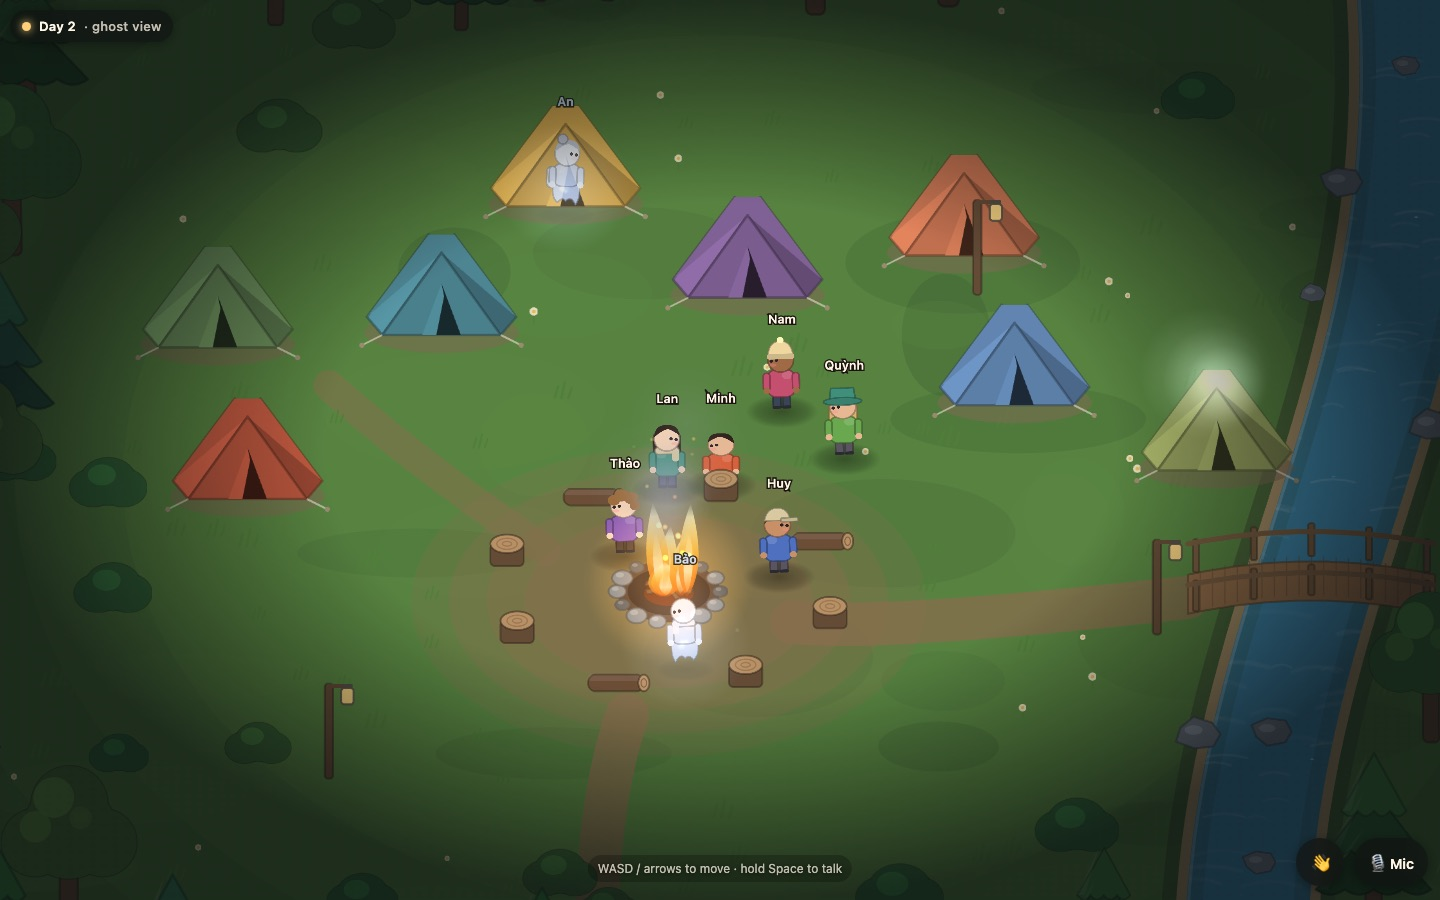
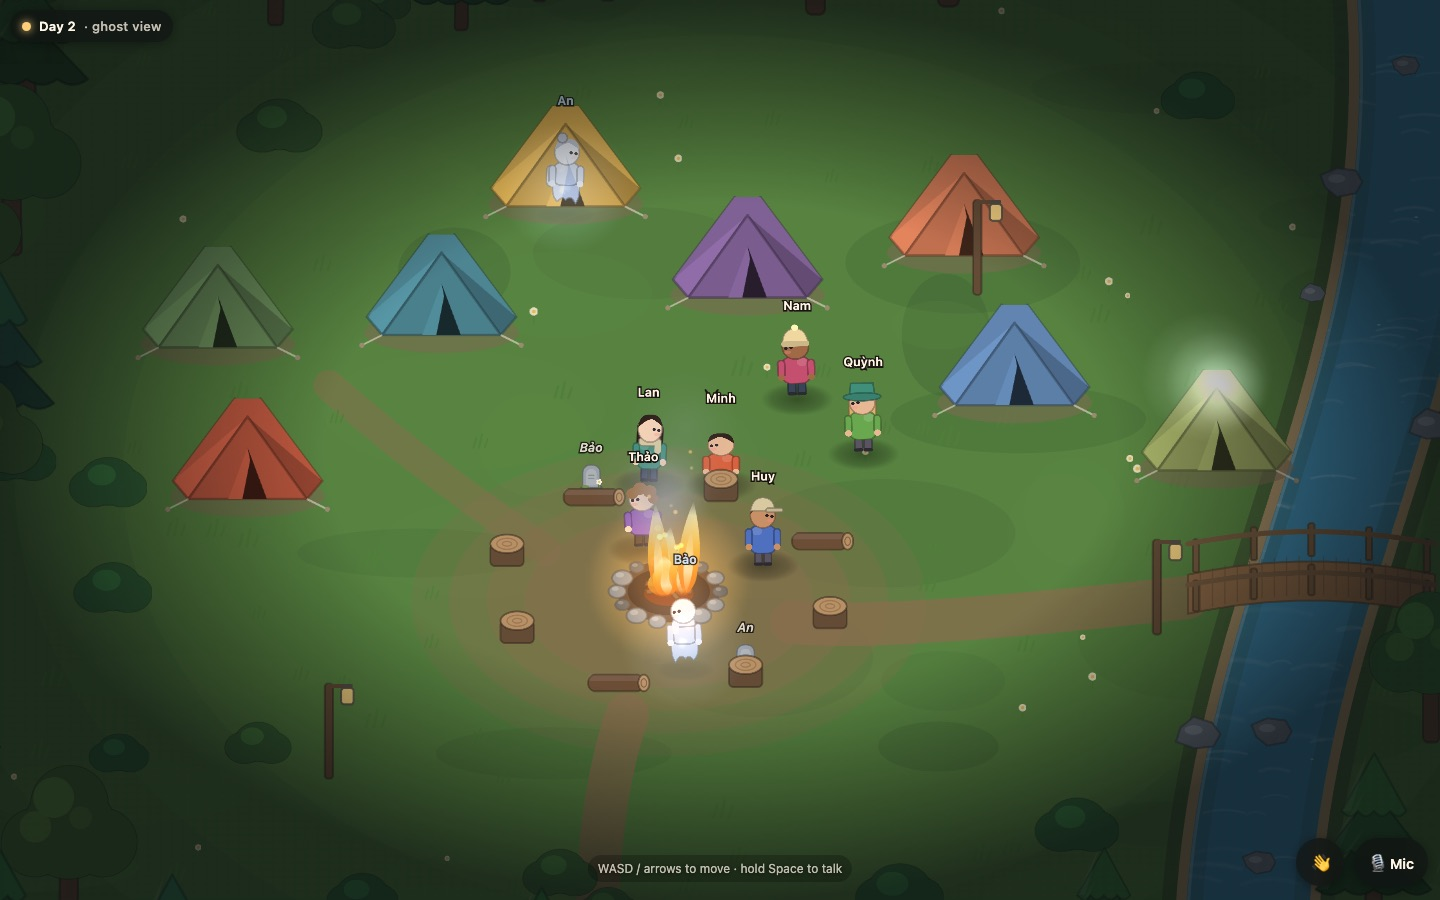
docs/visual/dawn: final after set on ab7a683 (memorials included), memorial before/after (3 dead seats, day + night, phone + laptop, Normal + Halloween), stone zoom, run records, limits

diff --git a/docs/visual/dawn/README.md b/docs/visual/dawn/README.md
@@ -2,7 +2,7 @@
 
 Scene dev page, fixtures only (no server, no voice, no live room), 8 players. Playwright **Chromium emulation**, headless,
 software WebGL, shared machine under load 12-23 (`runs.txt`); not real devices. "before" = live 7011b14, "after" = this
-branch. `packages/scene/scripts/dawn-check.mjs` drives every scenario on the **scene clock** and asserts per-seat state
+branch at ab7a683 (memorials included). `packages/scene/scripts/dawn-check.mjs` drives every scenario on the **scene clock** and asserts per-seat state
 (`debugSeats()`); old builds have no hook: captures only. Times in file names = scene seconds after dawn (or after the death).
 
 | scenario | files | what it shows |
@@ -13,6 +13,7 @@ branch. `packages/scene/scripts/dawn-check.mjs` drives every scenario on the **s
 | day death (execution) | `*/day-death-living-{laptop,phone}-high-t0.3/t1.5` | before: gone in one frame. after: fading at the seat with a wisp at 0.3 s, absent at 1.5 s |
 | low / reduced motion | `*/night-death-living-laptop-{low,reduced-motion}-*`, `*/day-death-living-laptop-low-*` | after: lantern straight out, no wisp (low) / one static wisp (reduced motion), same choreography |
 | Halloween theme | `after/night-death-living-laptop-high-halloween-*` | same beat with the overlay on |
+| memorials, 3 dead seats (s2, s5, s7 at dawn), day then the next night | `*/memorials-{laptop,phone}[-halloween]-t10/t19`, `compare/memorial-stone-laptop-zoom` | before: empty seats. after: a small headstone behind each dead seat's stump with the display name (muted italic), kept through the night; Halloween: tiny pumpkin instead of the flower |
 
 ## Limits
 
@@ -26,7 +27,16 @@ branch. `packages/scene/scripts/dawn-check.mjs` drives every scenario on the **s
   and laptop, high, low, reduced motion, Halloween. Clock in the browser (reduced motion): 9 s of scene time took 23.7 s
   real before vs 9.3 s after. Under heavy load `high` itself runs slower than real time (software WebGL below 10 fps hits
   the stall clamp): a test-machine effect, not a product timing claim.
+- **Memorials, unit tests** (`test/memorial.test.ts`): public dead only (not disconnected, not removed: no memorial and
+  no wisp for `death.cause === 'removed'`), night victim only from its tent beat, day death only after its fade, Hunter at
+  dawn + shot target (both, nothing pending), reload places all at once, lobby / next match clear them, one name per
+  player (hidden while that ghost is visible within 130 units), the stone never covers a camper behind it and never
+  touches a pumpkin (4-16 players), full raise up to 10 players. Negative controls: showing a night victim's memorial at
+  once, or treating removal as death, each fail their test.
+- **Memorials, captures + assertions**: memorial set over time and names shown in every after scenario, 3 dead seats
+  through day and night on phone and laptop, Normal and Halloween.
 - **Not shown here**: the real server flow (Hunter step, real poses) and the UI overlay together with the scene (UI owner's
   combined set); reload during dawn is unit-tested (snap), not captured.
-- **Perceptual, untested**: whether the tent beat is noticed at a glance on a phone, whether the 2.5-8 s dawn pacing
+- **Perceptual, untested**: whether the small stone reads as a memorial at phone scale (the name carries identity; in
+  11-16 player rings some side stones stand lower behind their stump), whether the tent beat is noticed at a glance on a phone, whether the 2.5-8 s dawn pacing
   matches the UI announcement, whether players read the wisp as "this seat died" (no role or cause shown, by design).
